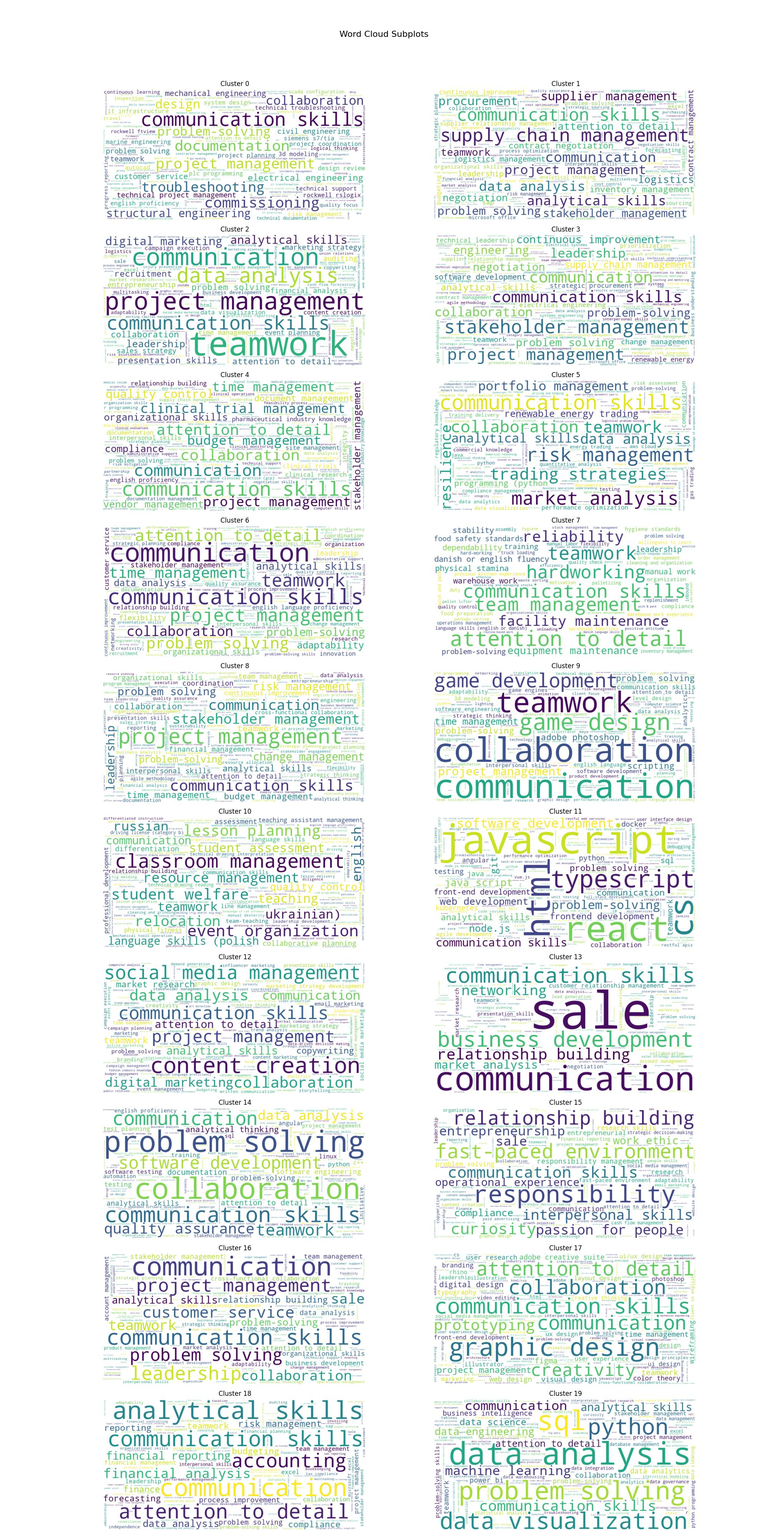
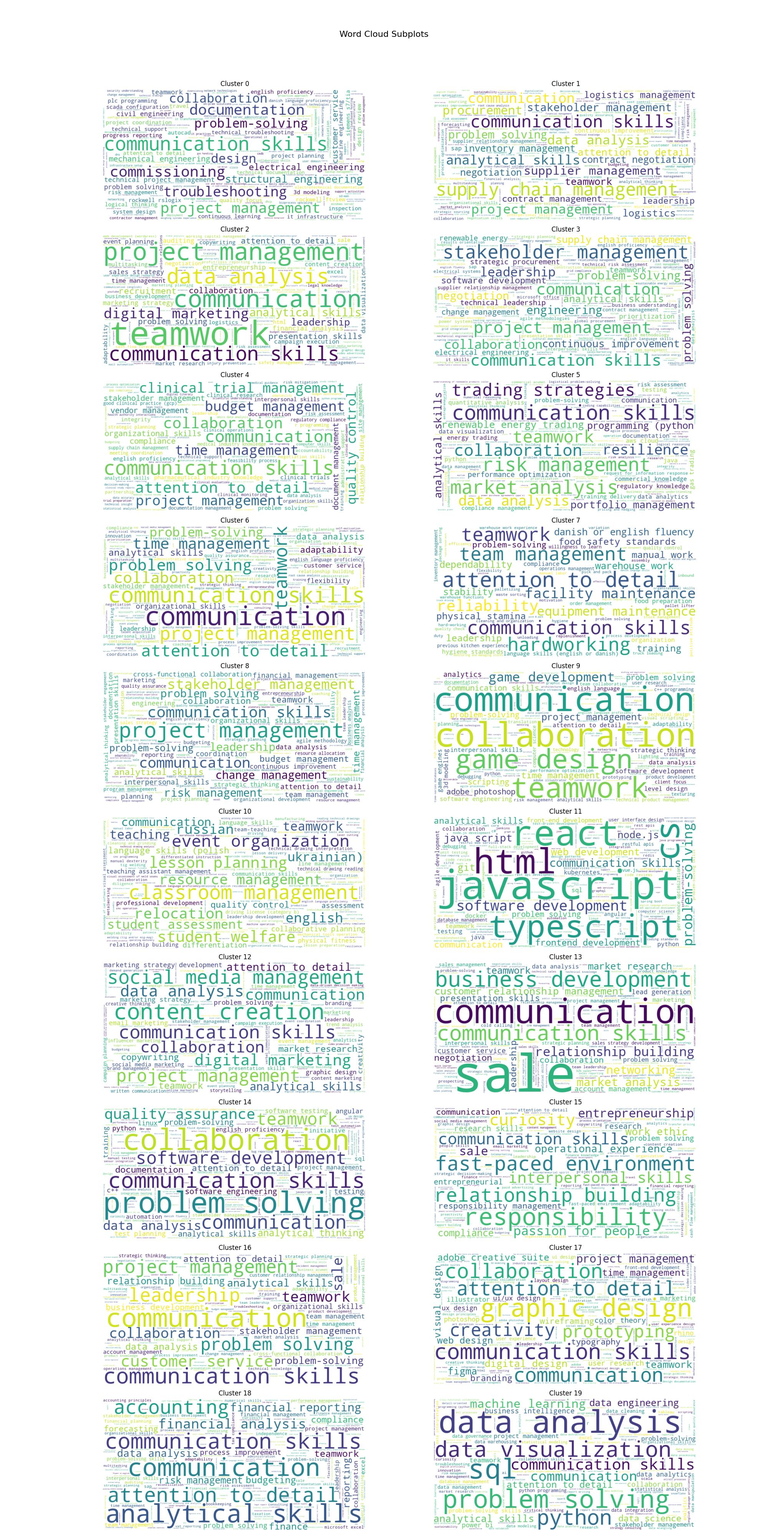
Update the spacy method

diff --git a/src/skill_cluster_plot.py b/src/skill_cluster_plot.py
@@ -6,13 +6,14 @@ import matplotlib.pyplot as plt
 from src.logger import working_on
 from src.utils import load_data
 from nltk.stem import WordNetLemmatizer
-
+import re
 def count_words(words):
     
     # Use spacy to reduce words
-    #nlp = spacy.load("en_core_web_sm")
-    #word = [token.lemma_ for token in nlp(" ".join(words))]
-    #words_without_special_chars = [w.replace('-', '').replace('#', '') for w in word]
+    # nlp = spacy.load("en_core_web_sm")
+    # word = [ re.sub(r"[^a-zA-Z0-9\s]", "", w) for w in words]
+    # word = [token.lemma_ for token in nlp(" ".join(word))]
+    
     # Use WordNet lemmatizer to reduce words
     lemmatizer = WordNetLemmatizer()
     # Apply lemmatization to the words
